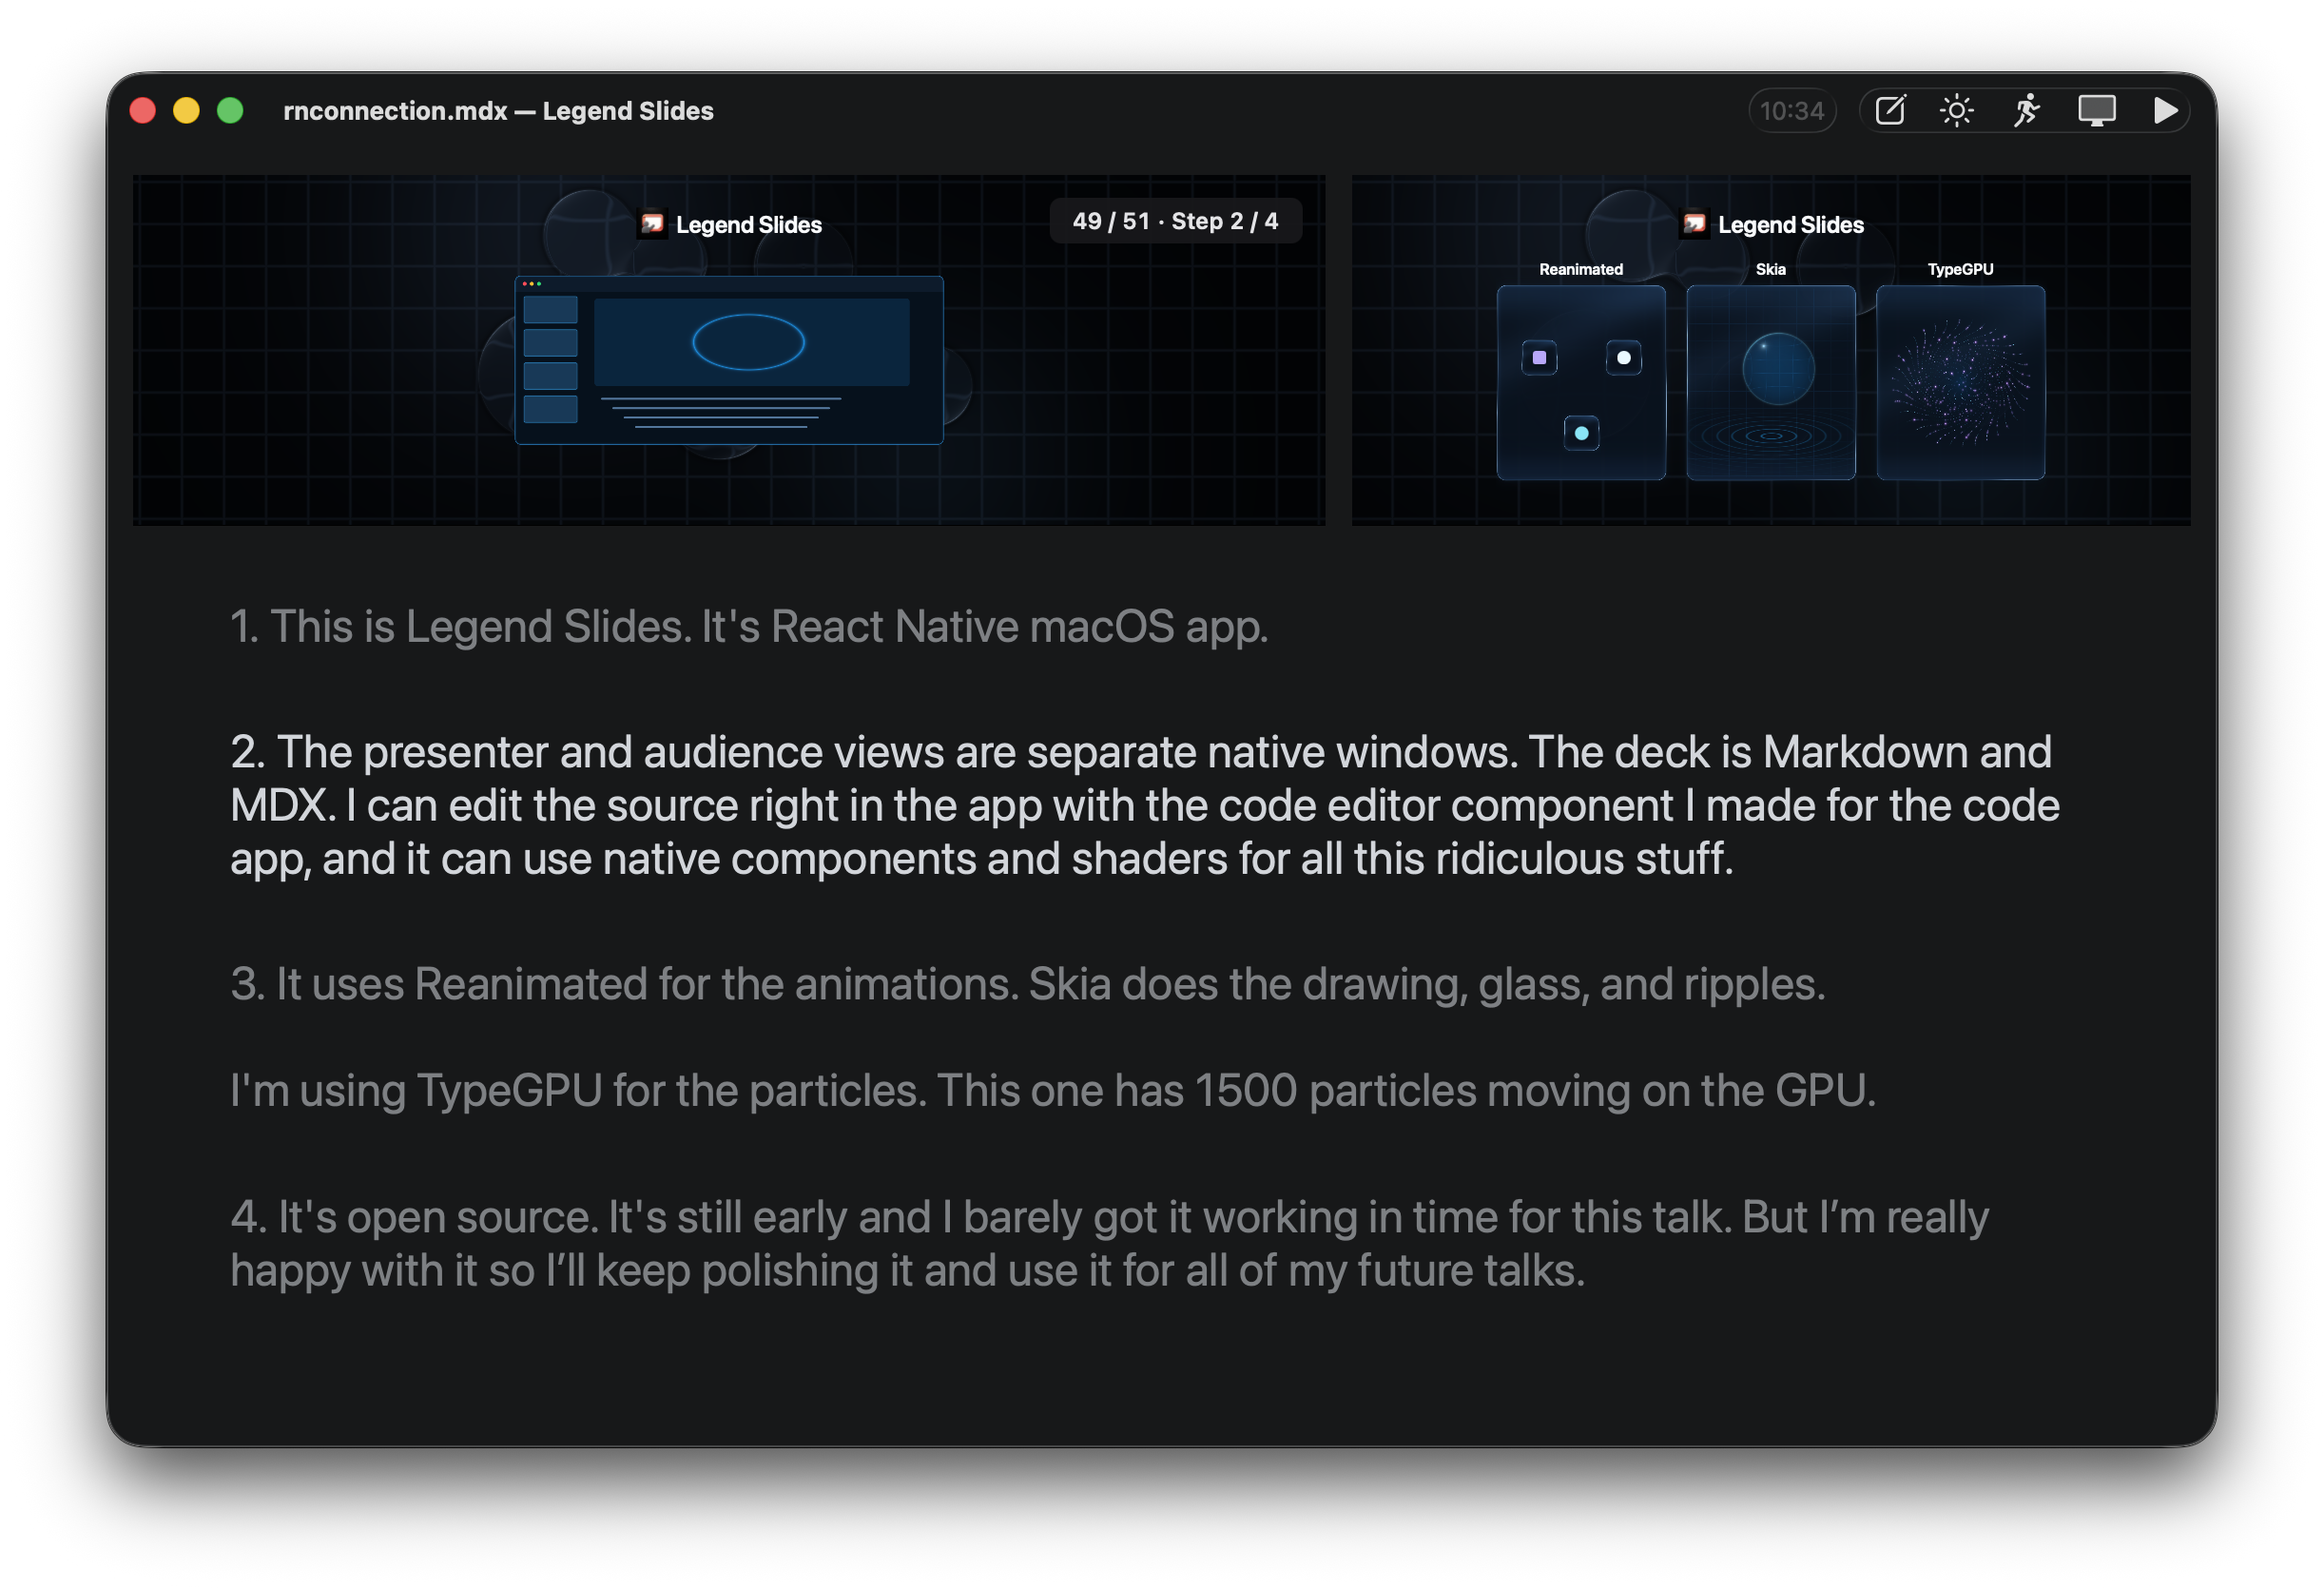
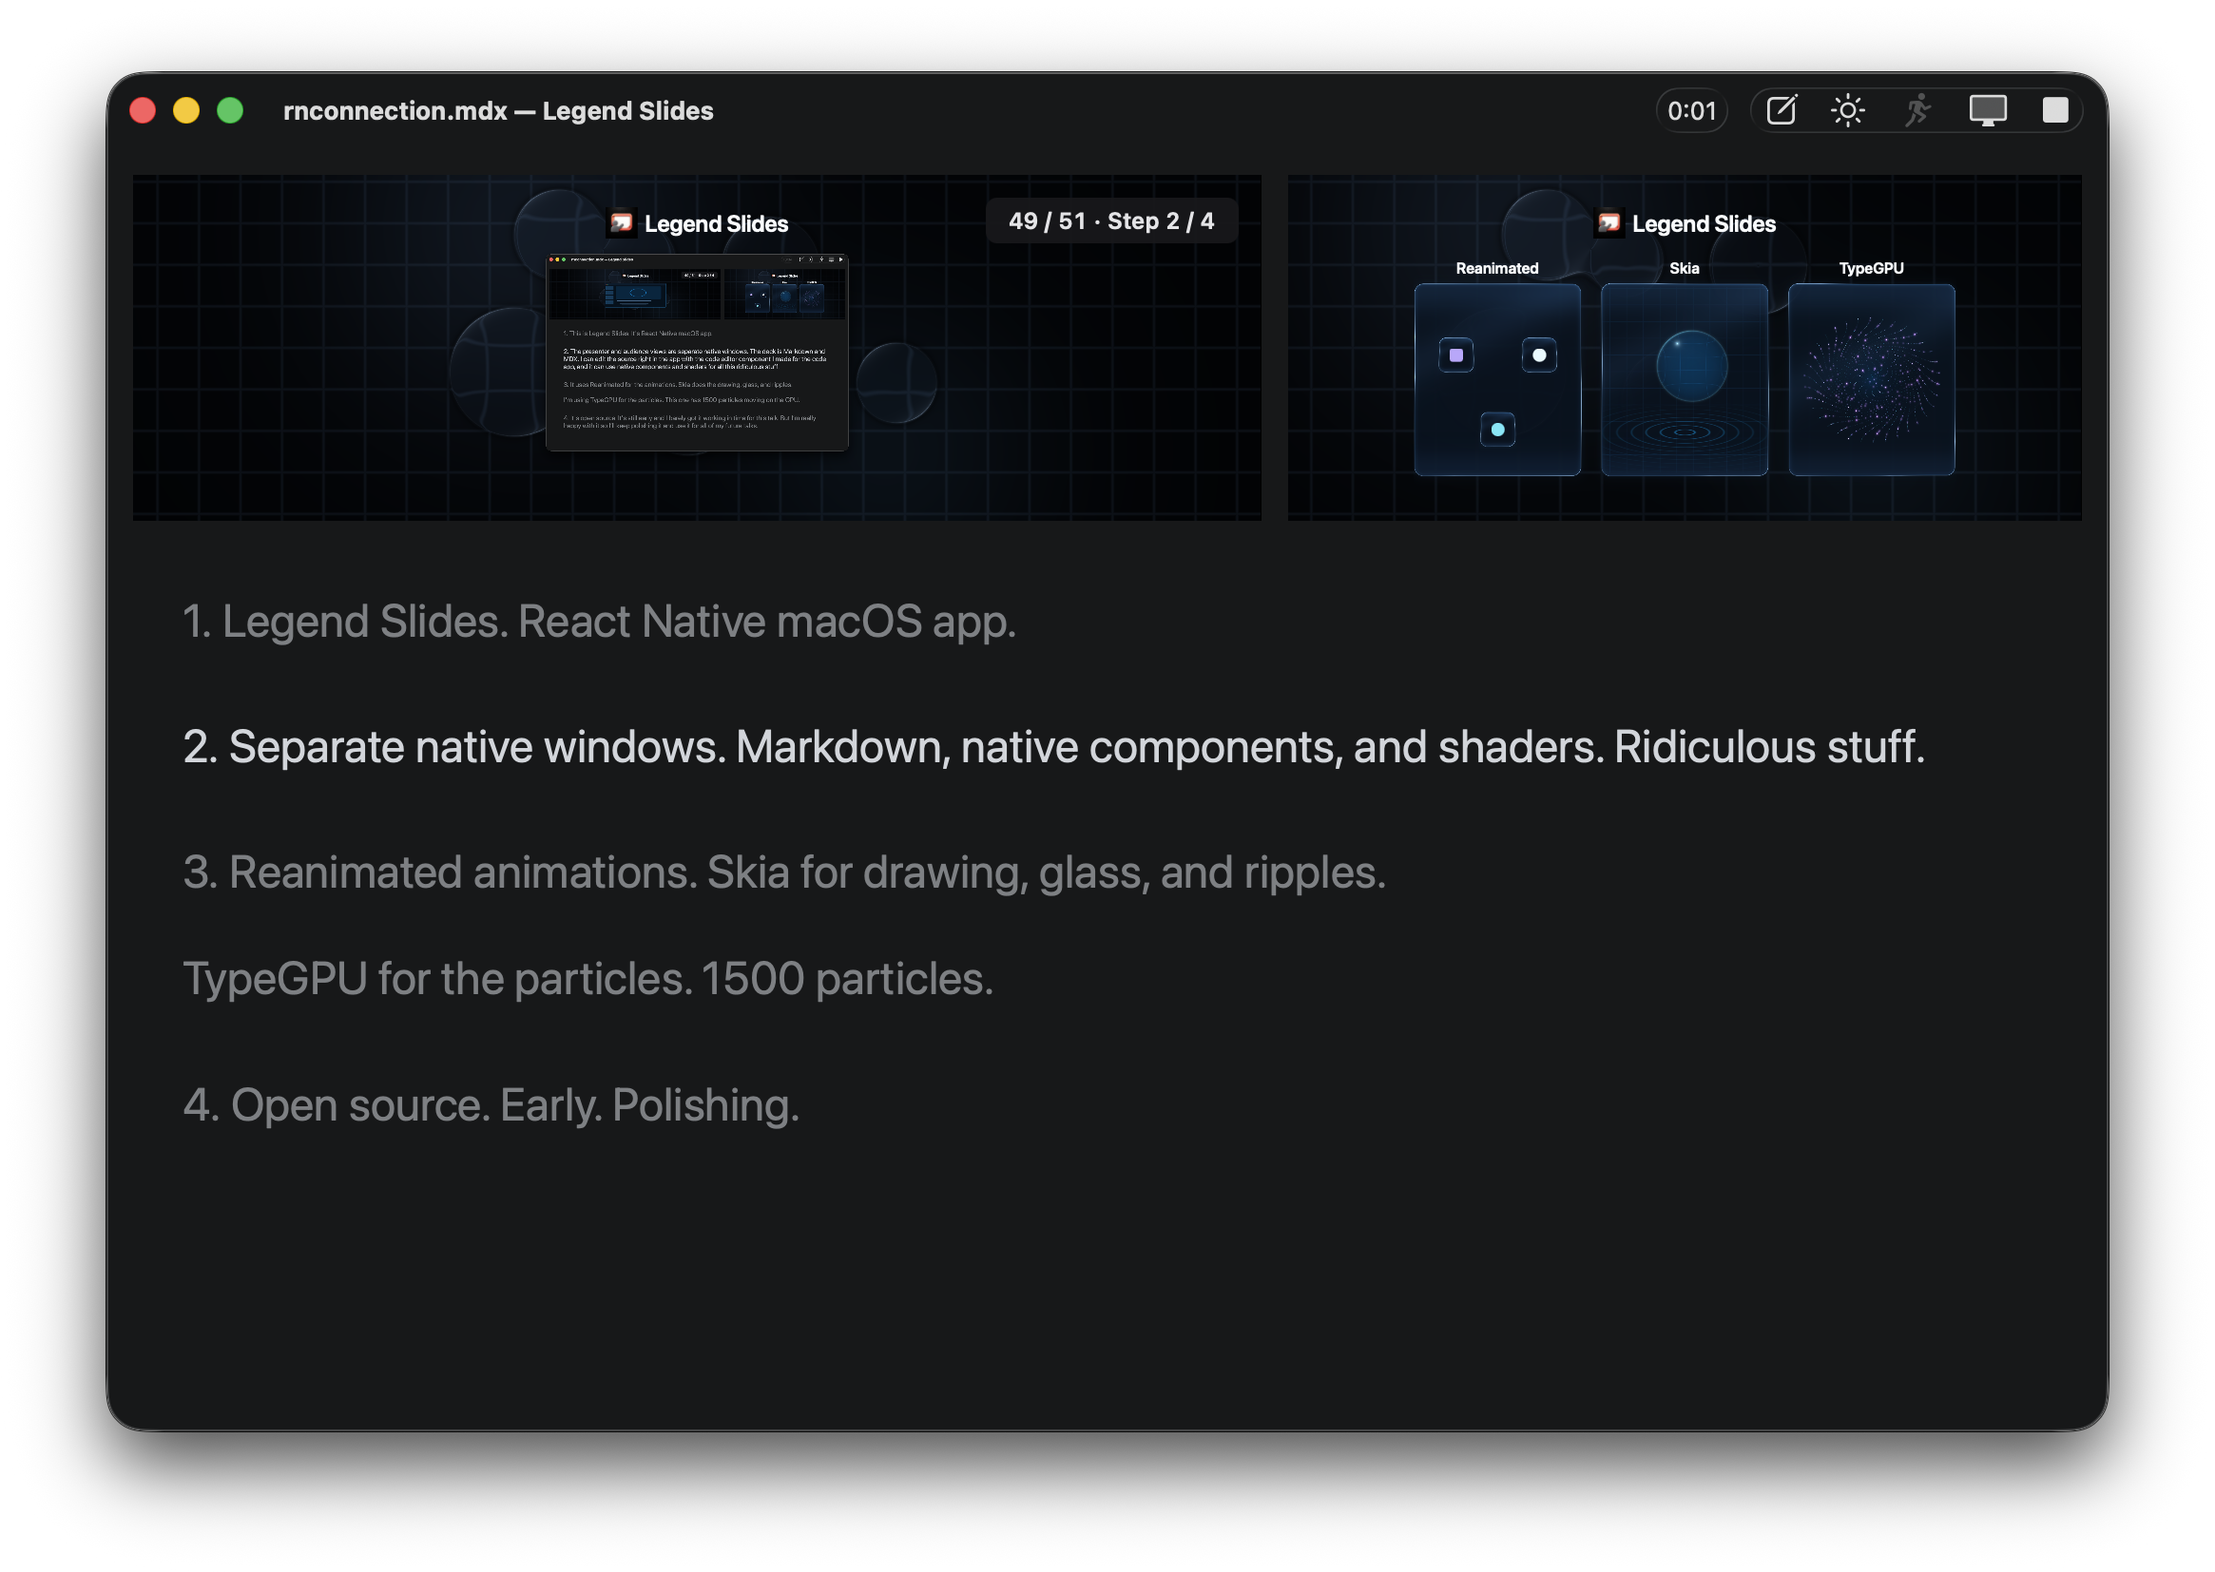
chore: update Legend Slides presenter screenshot

diff --git a/talks/react-native-desktop/SlidesReveal.tsx b/talks/react-native-desktop/SlidesReveal.tsx
@@ -80,7 +80,7 @@ export function SlidesReveal({ icon, children }: { icon: string; children: React
     {screenshotImage && <Canvas pointerEvents="none" accessibilityLabel="Legend Slides presenter window screenshot"
       style={{ position: "absolute", left: -112, top: -100, width: 1920, height: 1180 }}>
       <Fill><Shader source={effect!} uniforms={uniforms}>
-        <ImageShader image={screenshotImage} fit="fill" rect={{ x: 0, y: 0, width: 1040, height: 710.638 }} tx="clamp" ty="clamp" />
+        <ImageShader image={screenshotImage} fit="contain" rect={{ x: 0, y: 0, width: 1040, height: 710.638 }} tx="clamp" ty="clamp" />
       </Shader></Fill>
     </Canvas>}
     {step === 2 && <View style={{ position: "absolute", top: 0, width: 1696 }}>
